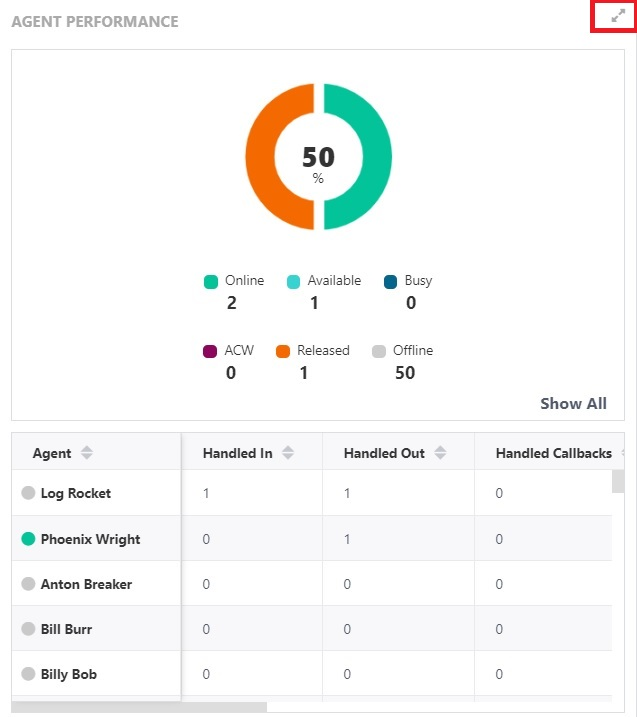
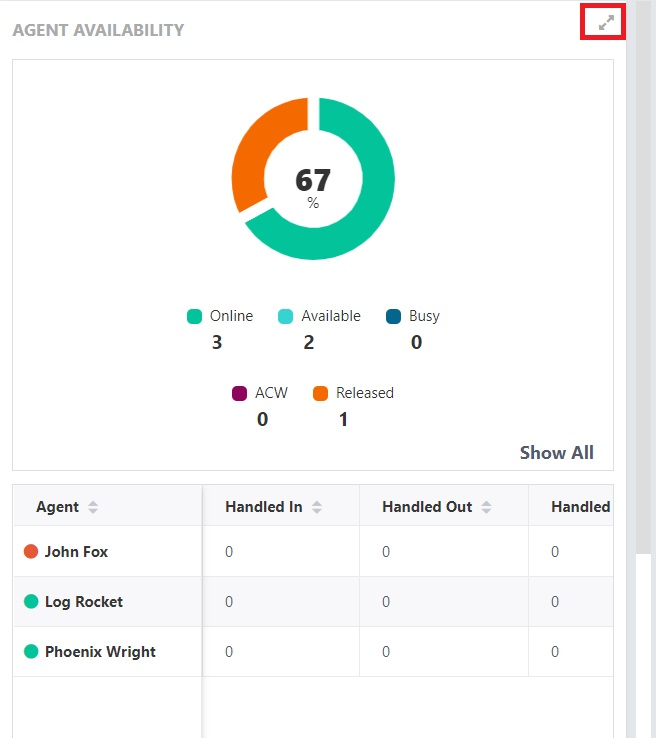
added release note 0.9.2 and fixed home images

diff --git a/docs/_pages/home.md b/docs/_pages/home.md
@@ -43,7 +43,7 @@ By clicking the Bell icon in the header, you'll open the Announcements. Here you
 
 ----
 
-### Home Dashboard & Cards
+### Home Dashboard & Widgets
 ----
 
 This area is for the display of real time metrics for all queues in near real time activity. Clicking on a queue name in the dropdown will show the metrics for that queue while the Global view summarizes all queues. 
@@ -56,7 +56,7 @@ In the top corner of Home dashboard you can also spot 2 icons at the right side,
 
 #### Contacts in Queue
 
-On this card you'll be able to see how many contacts are currently on voice and callback. You're also provided with a live look that displays the numbers shown. 
+Here you'll be able to see how many contacts are currently on voice and callback. You're also provided with a live look that displays the numbers shown. 
 
 ![Contacts in Queue](/assets/images/contact-queue.jpg)
 
@@ -64,7 +64,7 @@ On this card you'll be able to see how many contacts are currently on voice and 
 
 #### My Recent Activity
 
-This card lists of all your activity through the day as records. You'll see Inbound, Outbound and even your Missed calls. Everytime you make a call or receive one, the list will update.
+This widget lists of all your activity through the day as records. You'll see Inbound, Outbound and even your Missed calls. Everytime you make a call or receive one, the list will update.
 
 You can also click any of the records, and choose the option to call the specified number. Below you can some retailer names instead of phone numbers because they were added as contacts in the [Directory](/directory/) TAB.
 
@@ -74,7 +74,7 @@ You can also click any of the records, and choose the option to call the specifi
 
 #### Contacts
 
-This is a Queue card. You'll be able to see how many calls have been handled, abandoned or transferred by all team members either globally between all Queues, or in your Queue.
+This is a Queue widget. You'll be able to see how many calls have been handled, abandoned or transferred by all team members either globally between all Queues, or in your Queue.
 
 ![Contacts](/assets/images/contacts.jpg)
 
@@ -82,7 +82,7 @@ This is a Queue card. You'll be able to see how many calls have been handled, ab
 
 #### My Perfomance
 
-This is a card that shows up your perfomance. It displays the amount of ACD (Automatic Call Distributor) and Peer to Peer (Agent to Agent) calls you've had during the day. How many you've handled, missed, and the amount of time.
+This shows your perfomance. It displays the amount of ACD (Automatic Call Distributor) and Peer to Peer (Agent to Agent) calls you've had during the day. How many you've handled, missed, and the amount of time.
 
 ![My Perfomance](/assets/images/my-perfomance.jpg)
 
@@ -106,7 +106,7 @@ A queue metric that displays how long the contacts have been waiting on the queu
 
 #### Agent Perfomance
 
-As of version 0.9.2, Agent Availability is changed to Agent Perfomance. This a global card that displays all agents logged in the Instance and their agent status.
+As of version 0.9.2, Agent Availability is expanded to include all agents in the Instance and their metrics through the day.
 
 <figure>
    <a href="/assets/images/agent perfomance.jpg">

diff --git a/docs/_release_notes/release-v0.9.2-2020-06-01.md b/docs/_release_notes/release-v0.9.2-2020-06-01.md
@@ -1,0 +1,47 @@
+---
+title: "v0.9.2"
+excerpt_separator: "<!--more-->"
+collection: release_notes
+permalink: /:categories/:title/
+date: 2020-06-01
+layout: single
+toc: true
+toc_sticky: true
+categories:
+  - Release Notes
+sidebar:
+  nav: "docs"
+---
+
+## Dextr Release Notes, May 2020
+
+### Supported Browsers: 
+
+Google Chrome Version 75.0.3770.100 or later. Welcome to the May 2020 release of Dextr. 
+
+There are a number of updates in this version that we hope you like, and some of the key highlights include: 
+
+### Agent Perfomance widget
+
+The Agent Availability widget has been expanded to include each agent's contact metrics for the day. 
+
+[![Agent Perfomance](/assets/images/perfomance-expanded.jpg)](/assets/images/perfomance-expanded.jpg)
+
+----
+
+### Dextr Launches in London and Singapore
+
+The Dextr dashboard is now generally available to Amazon Connect instances in London and Singapore.
+
+----
+
+### Bug fixes
+
+- ✓ #420 Forced release shows along with custom label when an agent misses a call. 
+- ✓ #422 Records of missed calls are being overwritten to INBOUND with zero duration. 
+- ✓ #474 Activity durations have long delay in populating. 
+- ✓ #466 Chat channel transcripts do not populate in Activity Details. 
+
+### Insiders: 
+
+Want to see new features as soon as possible? You can enroll in the beta program by emailing your Instance Alias to beta@dextr.cloud.  Try out the latest updates as soon as they are available.  

diff --git a/docs/_pages/settings.md b/docs/_pages/settings.md
@@ -76,12 +76,9 @@ There is also Call Dispositions. By default this is disabled, but by enabling it
 
 [![Settings Sounds](/assets/images/general-configuration.jpg)](/assets/images/general-configuration.jpg)
 
-<figure>
-   <img src="{{ '/assets/images/general-configuration.jpg' }}" alt="General Configuration">
-</figure>
 ----
 
-You can turn **Demo Mode** on to simulate a real work environment. This will preview some of Dextr dashboard features and metrics with prepopulated data in the Home Dashboard. You can also turn this on and off with Ctrl+Shift+D, and to test incoming call you do so with Ctrl+Shift+I.
+You can turn **Demo Mode** on to simulate a real work environment. This will preview some of Dextr dashboard features and metrics with prepopulated data in the Home Dashboard. You can also turn this on and off with Ctrl+Alt+D, and to test incoming call you do so with Ctrl+Alt+I.
 
 [![Demo mode](/assets/images/demo-mode.jpg)](/assets/images/demo-mode.jpg)
 

diff --git a/docs/_release_notes/release-v0.9.0-2020-01-19.md b/docs/_release_notes/release-v0.9.0-2020-01-19.md
@@ -54,9 +54,9 @@ Filter current activity results set by Channel (Voice, Chat, Email, SMS and Call
 
 ### Bug fixes
 
-- Intermittently, the team status drawer wouldn't show an agent’s connected phone number.
-- Intermittently, an agent’s connected duration would not match with default CCP.
-- Notes added during a call wouldn't be shown in activity details page. 
+- ✓ #407 Intermittently, the team status drawer wouldn't show an agent’s connected phone number.
+- ✓ #411 Intermittently, an agent’s connected duration would not match with default CCP.
+- ✓ #439 Notes added during a call wouldn't be shown in activity details page. 
 
 ### Insiders: 
 
